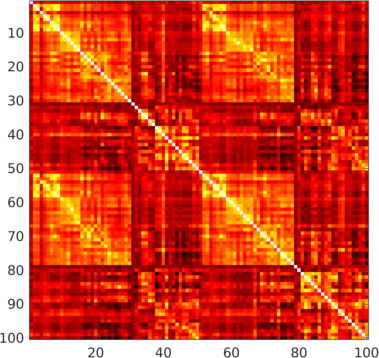
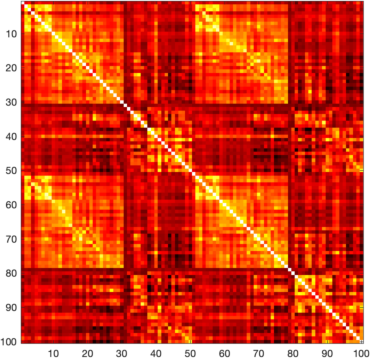
Revamped matlab example figures with new plot_hemispheres.m

diff --git a/matlab/plot_data/plot_hemispheres.m b/matlab/plot_data/plot_hemispheres.m
@@ -26,8 +26,12 @@ for ii = 1:size(data,2)
 end
 
 % Plot the surface(s).
-h.figure = figure('Color','white','Units','normalized','Position',[0 0 1 1]);
+h.figure = figure('Color','white','Units','normalized','Position',[0 0 .9 .9]);
 colormap(parula(256));
+for ii = 1:size(data,2)
+    clim(:,ii) = [min(data(~isinf(data(:,ii)),ii)); ...
+                  max(data(~isinf(data(:,ii)),ii))];
+end
 for jj = 1:size(D,2)
     for ii = 1:numel(S)*2
         idx = ceil(ii/2);
@@ -40,14 +44,14 @@ for jj = 1:size(D,2)
             'EdgeColor', 'None');
         material dull; lighting phong;
     end
-end
-
-% Add axes embelishments
-set(h.axes                              , ...
+    set(h.axes(:,jj)                    , ...
     'Visible'           , 'off'         , ...
     'DataAspectRatio'   , [1 1 1]       , ...
     'PlotBoxAspectRatio', [1 1 1]       , ...
-    'CLim'              , h.axes(1).CLim);
+    'CLim'              , clim(:,jj)     );
+end
+
+% Add axes embelishments
 set(h.axes(1,:),'View',[-90 0]);
 set(h.axes(2,:),'View',[90 0]);
 if size(h.axes,1) == 4
@@ -66,7 +70,7 @@ for ii = 1:size(D,2)
     h.cb(ii) = colorbar(h.axes(4,ii)); 
     h.cb(ii).Position = [h.axes(4,ii).Position(1:2) + [.175 .065] ...
                          .007 .08];
-    h.cb(ii).Ticks = h.axes(4,ii).CLim;
+    h.cb(ii).Ticks = clim(:,ii);
     h.cb(ii).FontName = 'DroidSans';
     h.cb(ii).FontSize = 14;
 end

diff --git a/docs/pages/matlab_doc/examples/plot_different_parcellations.rst b/docs/pages/matlab_doc/examples/plot_different_parcellations.rst
@@ -1,20 +1,15 @@
 Functional gradients across spatial scales
 =================================================
-To assess consistency of gradient mapping, in this example we will compute the
-gradients across different spatial scales. Specifically we subdivide the conte69
-surface into 100, 200, 300, and 400 parcels based on a functional clustering
-`(Schaefer et al., 2017) <https://academic.oup.com/cercor/article-lookup/doi/10.1093/cercor/bhx179>`_ and built functional gradients from these
-representations.
+To assess consistency of gradient mapping, in this example we will compute the gradients across different spatial scales. Specifically we subdivide the conte69 surface into 100, and 400 parcels based on a functional clustering `(Schaefer et al., 2017) <https://academic.oup.com/cercor/article-lookup/doi/10.1093/cercor/bhx179>`_ and built functional gradients from these representations.
 
 First, let's load the different parcellations and their corresponding mean connectivity matrices. We also load the conte69 surface. These files are provided with BrainSpace.
-
 
 .. code-block:: matlab
 
     addpath(genpath('/path/to/BrainSpace/matlab')); 
 
     % Different parcellations
-    list_parcels = 100:100:400;
+    list_parcels = [100,400]; 
 
     % Load parcellations and mean connectivity matrices
     labelings = load_parcellation('schaefer',list_parcels); 
@@ -30,16 +25,16 @@ parcellations to the left and right hemispheres first.
 
 .. code-block:: matlab
 
-    h = plot_hemispheres(labelings.schaefer_100, {surf_lh,surf_rh});
-    colormap(h.figure,lines(101))
+    h = plot_hemispheres([labelings.schaefer_100,labelings.schaefer_400], ...
+                        {surf_lh,surf_rh});
+    colormap(h.figure,lines(401))
 
-
-.. image:: ./example_figs/schaefer_400.png
-   :scale: 30%
+.. image:: ./example_figs/schaefer_100_400.png
+   :scale: 60%
    :align: center
 
 
-We have 4 mean connectivity matrices built from each parcellation.
+We have 2 mean connectivity matrices built from each parcellation.
 
 
 .. code-block:: matlab
@@ -49,9 +44,9 @@ We have 4 mean connectivity matrices built from each parcellation.
     titles = replace(parcel_names,'_','\_');
 
     % The mean connectivity matrix built from the HCP data for each parcellation
-    h.fig = figure;
-    for ii = 1:4
-        h.ax(ii) = subplot(1,4,ii);
+    h.fig = figure('Color','w');
+    for ii = 1:numel(parcel_names)
+        h.ax(ii) = subplot(1,2,ii);
         h.img(ii) = imagesc(conn_matices.(parcel_names{ii}));
         title(titles{ii})
         axis square
@@ -59,13 +54,10 @@ We have 4 mean connectivity matrices built from each parcellation.
     end
 
 .. image:: ./example_figs/connectivity_matrices.png
-   :scale: 50%
+   :scale: 70%
    :align: center
 
-
-Now, we use our GradientMaps class to build one gradient for each connectivity
-matrix. Gradients are the appended to the surfaces.
-
+Now, we use our GradientMaps class to build one gradient for each connectivity matrix. Gradients are the appended to the surfaces.
 
 .. code-block:: matlab
 
@@ -75,15 +67,23 @@ matrix. Gradients are the appended to the surfaces.
     gm = gm.fit(struct2cell(conn_matices));
 
 
-Finally, we plot the first gradient of Schaefer_400 as follows:
-
+Finally, we plot the first two gradient of Schaefer_100 as follows:
 
 .. code-block:: matlab
     
-    % Note that {1} = schaefer_100, {2} = schaefer_200, etc...
-    plot_hemispheres(G.gradients{4}(:,1),{surf_lh,surf_rh},labelings.schaefer_400);
+   plot_hemispheres(gm.gradients{1}(:,1:2),{surf_lh,surf_rh},labelings.schaefer_100);
+
+.. image:: ./example_figs/schaefer_100_G1G2.png
+   :scale: 60%
+   :align: center
+
+and the first two gradients of Schaefer_400.
+
+.. code-block:: matlab
+    
+    plot_hemispheres(G.gradients{2}(:,1:2),{surf_lh,surf_rh},labelings.schaefer_400);
 
 
-.. image:: ./example_figs/schaefer_400_G1.png
-   :scale: 30%
+.. image:: ./example_figs/schaefer_400_G1G2.png
+   :scale: 60%
    :align: center

diff --git a/docs/pages/matlab_doc/examples/plot_embedding_approaches.rst b/docs/pages/matlab_doc/examples/plot_embedding_approaches.rst
@@ -1,14 +1,8 @@
 Embedding approaches for gradient construction
 =================================================
-Starting from the resting state connectivity matrix built  from a subset of the
-Human Connectome Project (HCP) dataset, we generate a sparse matrix and compute
-its affinity matrix. In this example, we show how the affinity matrix is
-decomposed using 3 different embedding approaches to obtain the gradients.
+Starting from the resting state connectivity matrix built  from a subset of the Human Connectome Project (HCP) dataset, we generate a sparse matrix and compute its affinity matrix. In this example, we show how the affinity matrix is decomposed using 3 different embedding approaches to obtain the gradients.
 
-We will start by loading the all the data we need for this example. Instead of
-using the original vertex-wise connectivity matrix, we are going to load a
-100x100 matrix based on `Schaefer et al., 2017 <https://academic.oup.com/cercor/article-lookup/doi/10.1093/cercor/bhx179>`_ parcellation.
-
+We will start by loading the all the data we need for this example. Instead of using the original vertex-wise connectivity matrix, we are going to load a 100x100 matrix based on `Schaefer et al., 2017 <https://academic.oup.com/cercor/article-lookup/doi/10.1093/cercor/bhx179>`_ parcellation.
 
 .. code-block:: matlab
 
@@ -24,10 +18,9 @@ using the original vertex-wise connectivity matrix, we are going to load a
     labeling = labeling.schaefer_100;
 
     % and load the conte69 hemisphere surfaces
-    [surf_lh, surf_rh] = load_conte69()
+    [surf_lh, surf_rh] = load_conte69();
 
 Let's see the parcellation on the surface. 
-
 
 .. code-block:: matlab
 
@@ -35,9 +28,8 @@ Let's see the parcellation on the surface.
    colormap(h.figure,lines(101))
 
 .. image:: ./example_figs/schaefer_100.png
-   :scale: 30%
+   :scale: 70%
    :align: center
-
 
 We can also see the connectivity matrix corresponding to the 100
 parcellations loaded above.
@@ -49,8 +41,6 @@ parcellations loaded above.
     figure('Color','w');
     imagesc(conn_matrix);
     axis square; colormap(hot);
-
-
 
 .. image:: ./example_figs/connectivity_matrix_schaefer_100.png
    :scale: 70%
@@ -74,37 +64,29 @@ Next, for all embedding approaches, we display the first gradient.
 
 .. code-block:: matlab
 
-    full_names = {'Principal Component Analysis','Laplacian Eigenmap', ...
-                  'Diffusion Map Embedding'};
-    for ii = 1:numel(embeddings)
-        h2{ii} = plot_hemispheres(gm{ii}.gradients{1}(:,1),{surf_lh,surf_rh}, ...
-                                  labeling); 
-        h2{ii}.figure.Name = full_names{ii};
-    end
+    h2 = plot_hemispheres([gm{1}.gradients{1}(:,1), ...
+                           gm{2}.gradients{1}(:,1), ...
+                           gm{3}.gradients{1}(:,1)], ...
+                           {surf_lh,surf_rh}, ...
+                           labeling);
 
-
-.. image:: ./example_figs/g1_schaefer_100_na_dm.png
-   :scale: 30%
+.. image:: ./example_figs/g1_schaefer_100.png
+   :scale: 70%
    :align: center
-
-
 
 And the second gradient
 
-
 .. code-block:: matlab
 
-    for ii = 1:numel(embeddings)
-        h2{ii} = plot_hemispheres(gm{ii}.gradients{1}(:,2),{surf_lh,surf_rh}, ...
-                                  labeling); 
-        h2{ii}.figure.Name = full_names{ii};
-    end
+    h2 = plot_hemispheres([gm{1}.gradients{1}(:,2), ...
+                           gm{2}.gradients{1}(:,2), ...
+                           gm{3}.gradients{1}(:,2)], ...
+                           {surf_lh,surf_rh}, ...
+                           labeling);  
 
-
-.. image:: ./example_figs/g2_schaefer_100_na_dm.png
-   :scale: 30%
+.. image:: ./example_figs/g2_schaefer_100.png
+   :scale: 70%
    :align: center
-
 
 We can see how the gradients follow the previously described
 somatomotor-to-visual and defaultmode-to-sensory axes.

diff --git a/docs/pages/matlab_doc/examples/plot_spin_permutations.rst b/docs/pages/matlab_doc/examples/plot_spin_permutations.rst
@@ -49,12 +49,12 @@ As an illustration of the rotation, lets plot the original t1w/t2w data
    :scale: 50%
    :align: center
 
-as well as one rotated version.
+as well as a few rotated version.
 
 .. code-block:: matlab
 
-    % Plot one of the rotations
-    h2 = plot_hemispheres(t1wt2w_rotated(:,1),{surf_lh,surf_rh});
+    % Plot a few of the rotations
+    h2 = plot_hemispheres(t1wt2w_rotated(:,1:3),{surf_lh,surf_rh});
 
 .. image:: ./example_figs/t1wt2w_rotated.png
    :scale: 50%
